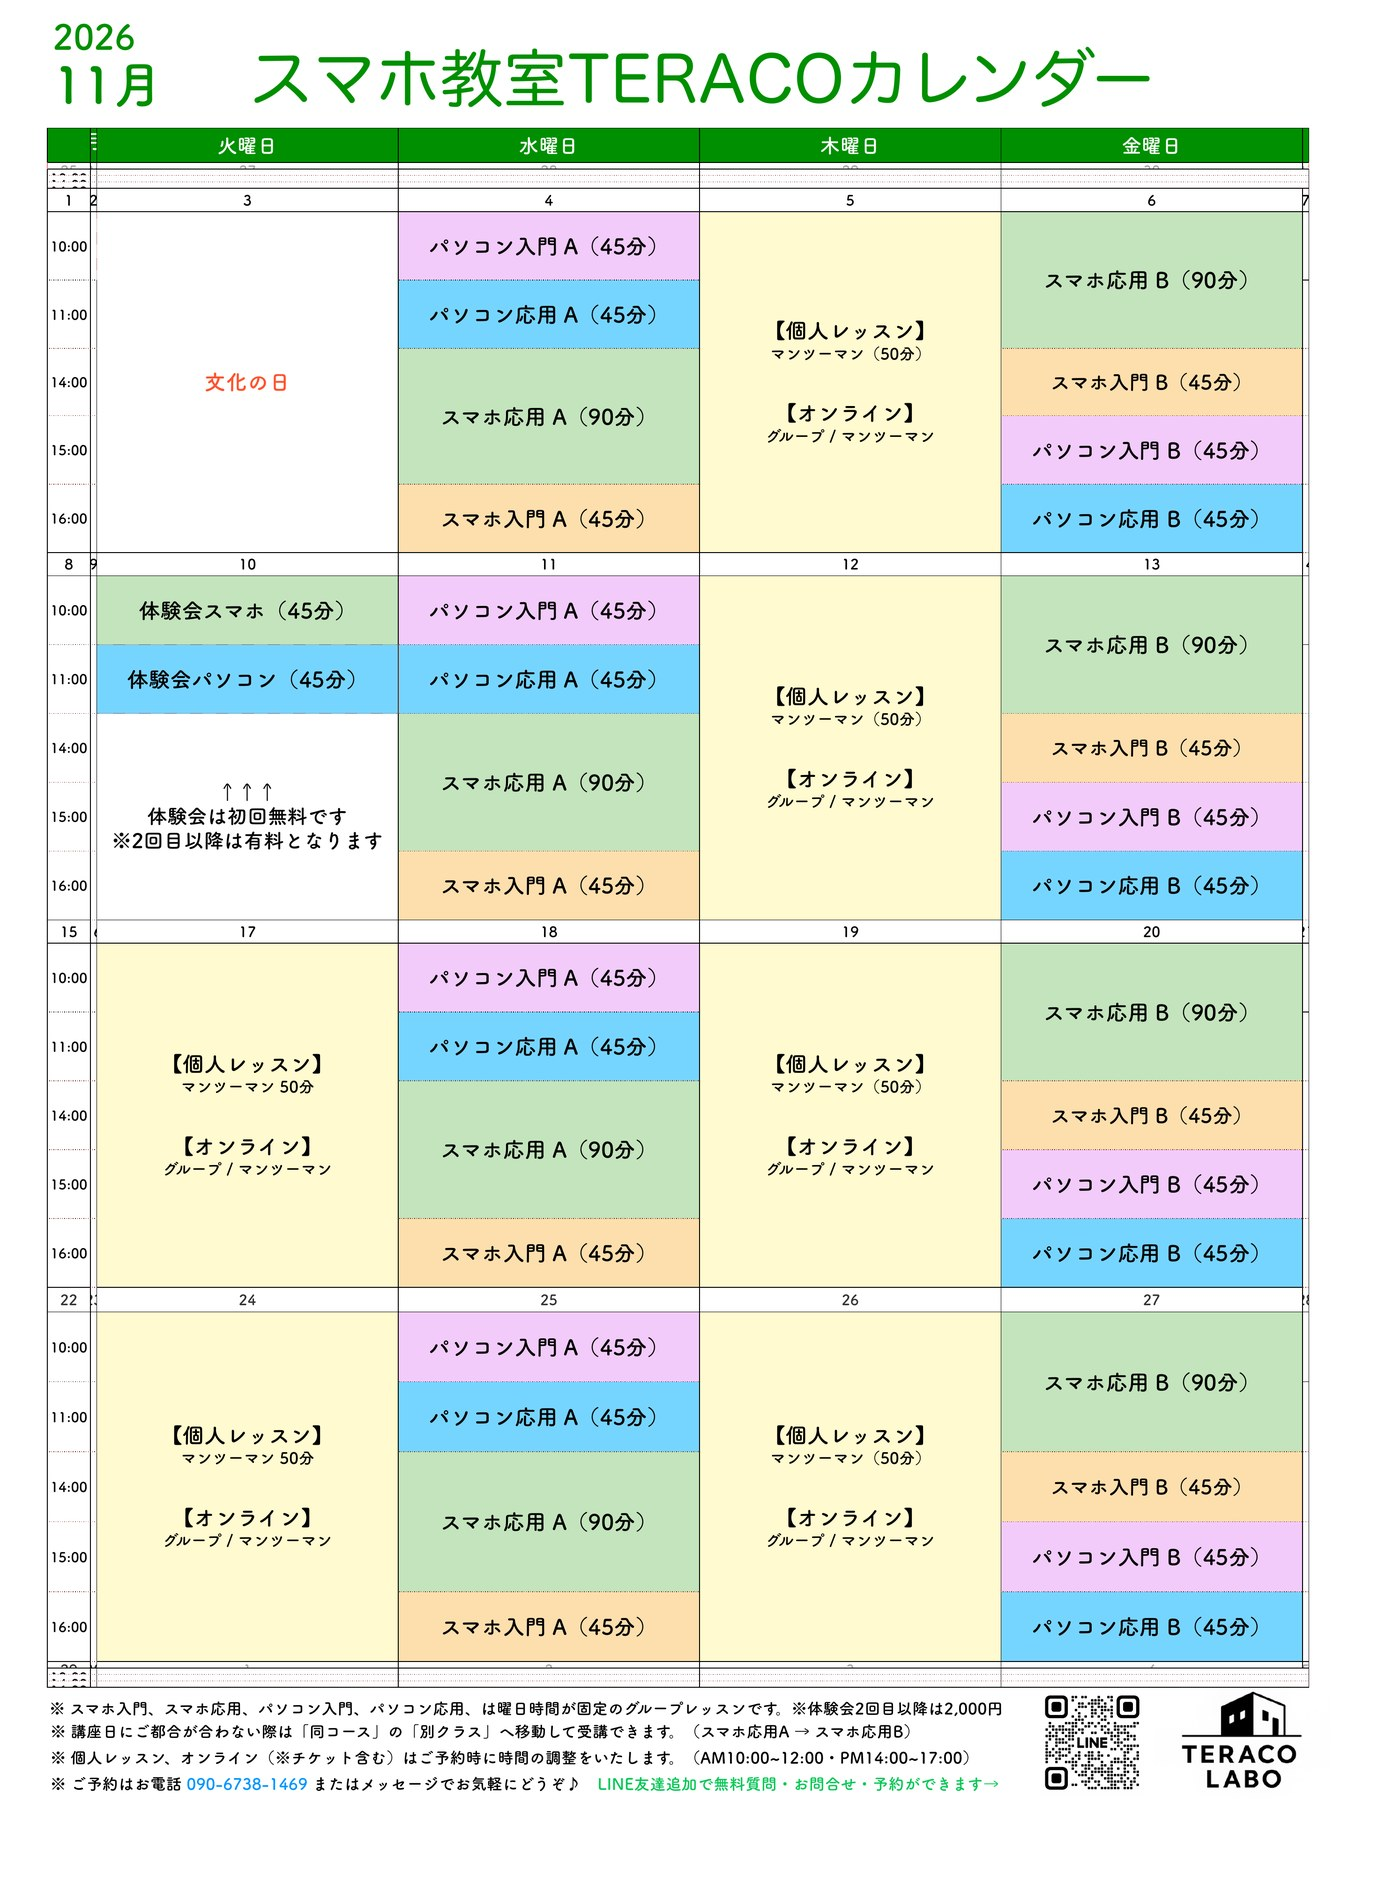
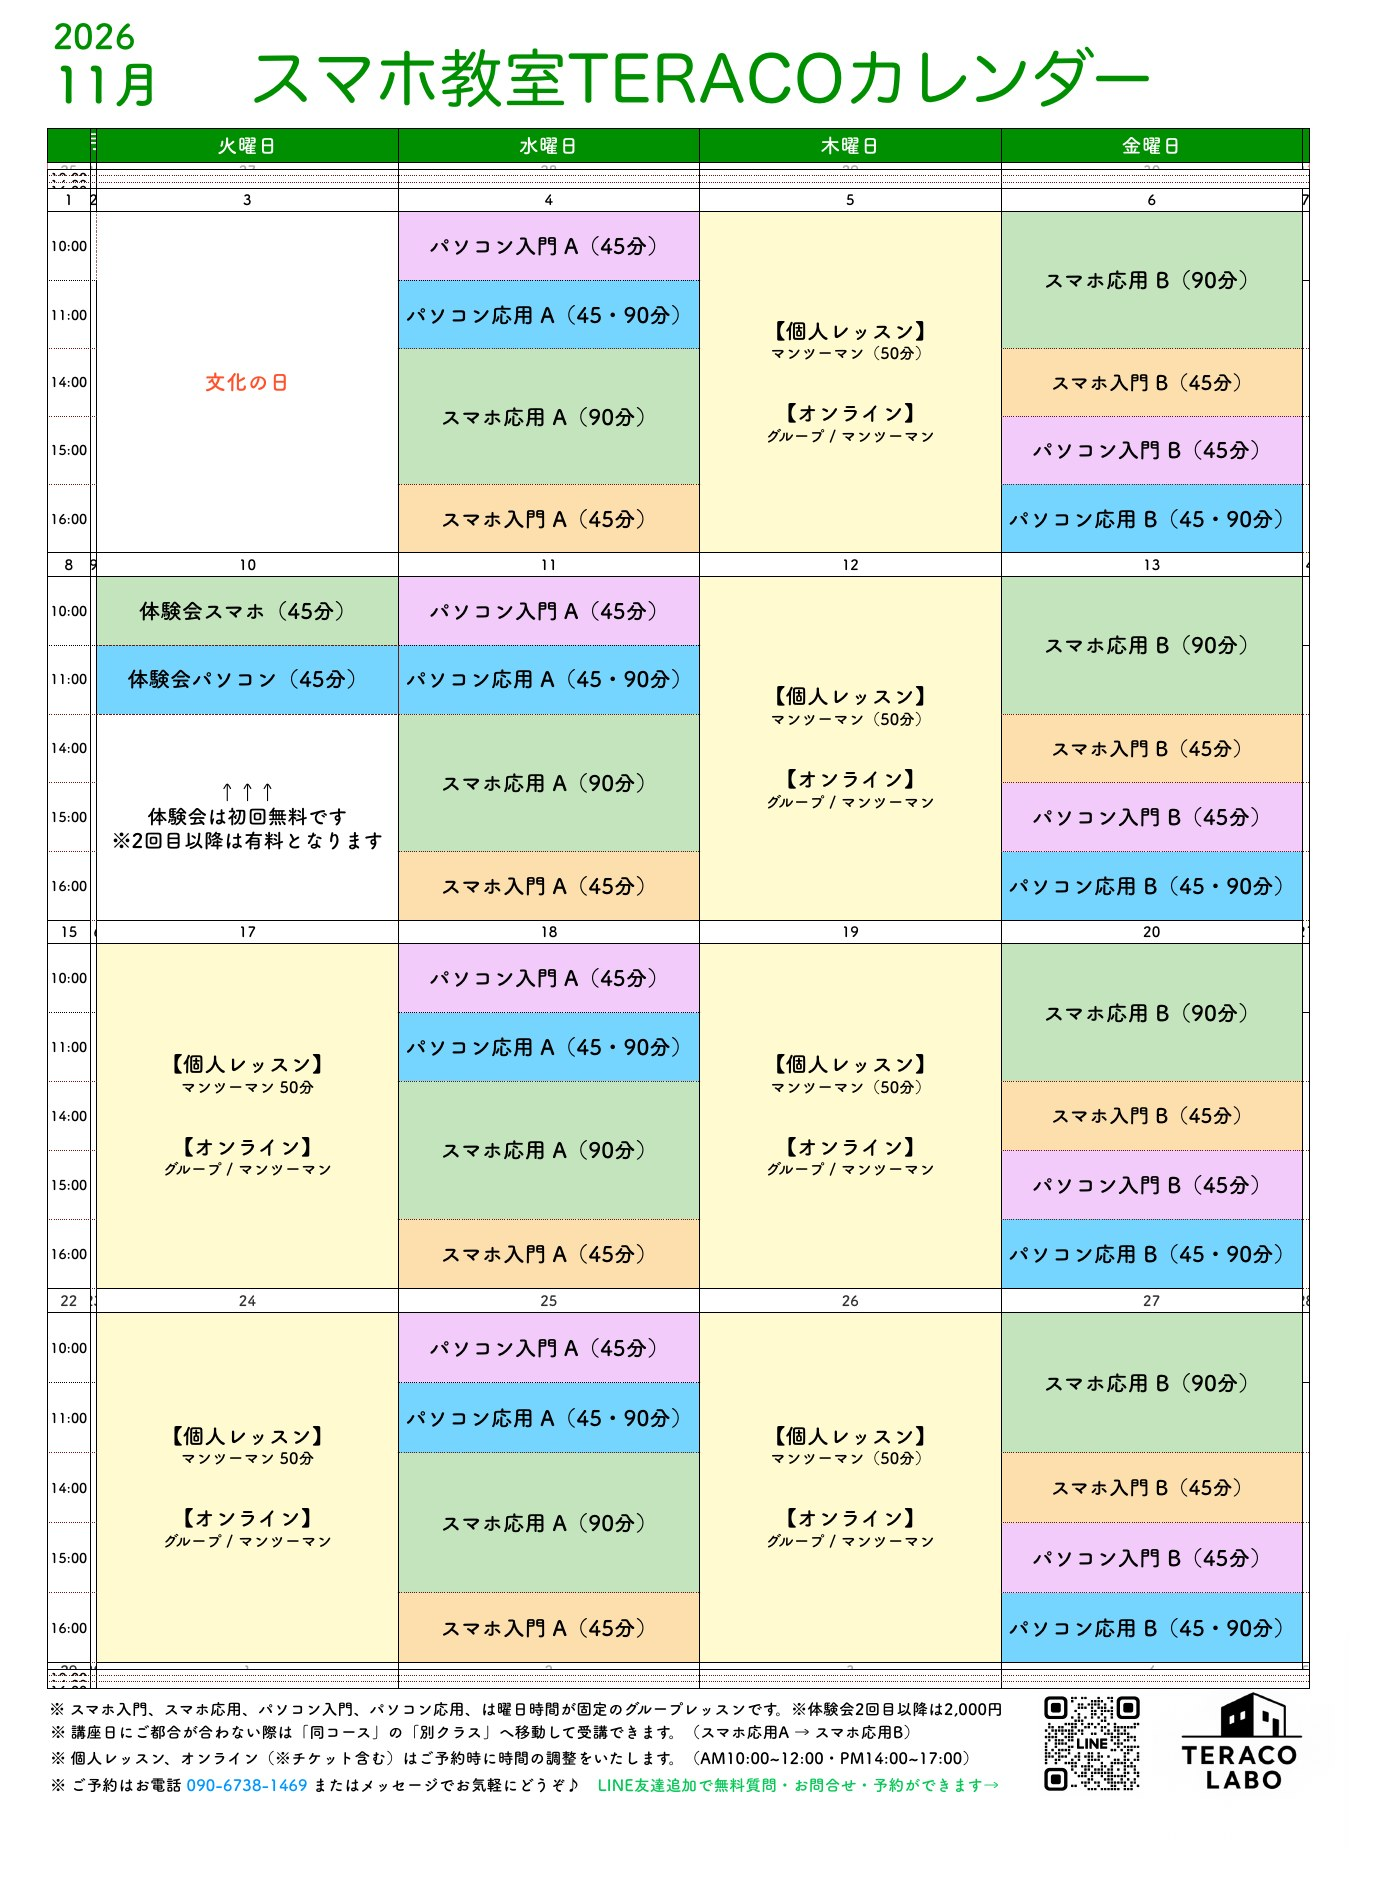
feat(pwa-reserve): パソコン応用の表示を暫定で「45・90分」に。Numbersを直して講座カレンダー画像6枚を差し替え（app n30）

diff --git a/pwa-reserve/calendar.html b/pwa-reserve/calendar.html
@@ -53,7 +53,7 @@
   <span class="msg" id="msg">読み込み中…</span>
 </div>
 <div class="sheet" id="sheet"><div class="err">講座カレンダーを読み込んでいます…</div></div>
-<script src="timetable.js?v=1"></script>
+<script src="timetable.js?v=2"></script>
 <script src="calendar-img/months.js?v=1"></script>
 <script>
 'use strict';
@@ -65,7 +65,7 @@ const SOLO = TT.courses['private'];
 const TIMETABLE = {};
 Object.values(TT.courses).forEach(c => { if (!c.classes) return;
   Object.keys(c.classes).forEach(k => { const cl = c.classes[k];
-    (TIMETABLE[cl.dow] = TIMETABLE[cl.dow] || []).push({ time: cl.time, span: c.min > 60 ? 2 : 1, label: `${c.label} ${k}（${c.min}分）`, color: c.color }); }); });
+    (TIMETABLE[cl.dow] = TIMETABLE[cl.dow] || []).push({ time: cl.time, span: c.min > 60 ? 2 : 1, label: `${c.label} ${k}（${c.minLabel || c.min}分）`, color: c.color }); }); });
 const pad = n => String(n).padStart(2, '0');
 const dk = d => `${d.getFullYear()}-${pad(d.getMonth() + 1)}-${pad(d.getDate())}`;
 const esc = s => String(s).replace(/[&<>"]/g, c => ({ '&': '&amp;', '<': '&lt;', '>': '&gt;', '"': '&quot;' }[c]));
@@ -77,7 +77,7 @@ const IMG_MONTHS = window.TERACO_CAL_IMG_MONTHS || [];
 function showImage() {
   const [y, m] = month.split('-').map(Number), sheet = document.getElementById('sheet');
   sheet.classList.add('pic');
-  sheet.innerHTML = `<img src="calendar-img/calendar-${month}.jpg?v=1" alt="${y}年${m}月 スマホ教室TERACOカレンダー">`;
+  sheet.innerHTML = `<img src="calendar-img/calendar-${month}.jpg?v=2" alt="${y}年${m}月 スマホ教室TERACOカレンダー">`;
   document.title = `${y}年${m}月 スマホ教室TERACOカレンダー`;
   document.getElementById('msg').textContent = `${m}月の講座カレンダー`;
   history.replaceState(null, '', `?m=${month}`);

diff --git a/pwa-reserve/app.js b/pwa-reserve/app.js
@@ -88,7 +88,8 @@ const dowTimeText = (c) => `${DAYS[c.dow]}曜 ${c.time}`;
 // クラス名には必ず分数を入れる（例：スマホ入門 A（45分）／個人レッスン（50分））
 function courseName(course, klass) {
   const c = COURSES[course]; if (!c) return '';
-  return c.classes && klass ? `${c.label} ${klass}（${c.min}分）` : `${c.label}（${c.min}分）`;
+  const mm = c.minLabel || c.min;   // 表示だけの分数（パソコン応用は暫定で「45・90」）
+  return c.classes && klass ? `${c.label} ${klass}（${mm}分）` : `${c.label}（${mm}分）`;
 }
 function classText(p) {
   if (!p || !p.course || !COURSES[p.course]) return '';
@@ -207,7 +208,7 @@ const eventAt = (dayKey, time) => SCHEDULE.events.find(ev => ev.day === dayKey &
 // 生徒がえらべる予定＝名前に「体験会」が入っているもの（初めての方も、在籍の方（有料）もえらべる）
 const trialEventsOn = (dayKey) => SCHEDULE.events.filter(ev => ev.day === dayKey && /体験会/.test(ev.label || '')).sort((a, b) => a.time.localeCompare(b.time));
 // 枠の表示：必ず「時刻（分数）」を出す。例「16:00（45分）」「10:00 体験会スマホ（45分）」
-const slotMin = (sl) => Number(sl.min) || ((me() && COURSES[me().course]) ? COURSES[me().course].min : 45);
+const slotMin = (sl) => Number(sl.min) || ((me() && COURSES[me().course]) ? (COURSES[me().course].minLabel || COURSES[me().course].min) : 45);
 const slotTimeText = (sl) => `${sl.start_time}${sl.event ? ' ' + sl.event : ''}（${slotMin(sl)}分）`;
 const isTrialTitle = (e) => /体験会/.test((e && (e.class_title || e.label || e.title)) || '');
 // その日に受けられる講座の一覧 [{time, klass, own}]。own=自分のクラス、false=同じコースの別クラス（振替）

diff --git a/pwa-reserve/timetable.js b/pwa-reserve/timetable.js
@@ -7,7 +7,8 @@ window.TERACO_TIMETABLE = {
     'sp-intro': { cat: 'smartphone', label: 'スマホ入門',   short: '入門', min: 45, color: '#F8DDB0', classes: { A: { dow: 3, time: '16:00' }, B: { dow: 5, time: '14:00' } } },
     'sp-adv':   { cat: 'smartphone', label: 'スマホ応用',   short: '応用', min: 90, color: '#C9E2C0', classes: { A: { dow: 3, time: '14:00' }, B: { dow: 5, time: '10:00' } } },
     'pc-intro': { cat: 'pc_ai',      label: 'パソコン入門', short: '入門', min: 45, color: '#E6CDF5', classes: { A: { dow: 3, time: '10:00' }, B: { dow: 5, time: '15:00' } } },
-    'pc-adv':   { cat: 'pc_ai',      label: 'パソコン応用', short: '応用', min: 45, color: '#A9DCFB', classes: { A: { dow: 3, time: '11:00' }, B: { dow: 5, time: '16:00' } } },
+    // パソコン応用：正式は90分（料金表どおり）。今は旧ベーシックの45分の方が多いので、カレンダー表示だけ暫定で「45・90分」（2026-10-08 藤崎さん）。予定の長さ（min）は45分のまま
+    'pc-adv':   { cat: 'pc_ai',      label: 'パソコン応用', short: '応用', min: 45, minLabel: '45・90', color: '#A9DCFB', classes: { A: { dow: 3, time: '11:00' }, B: { dow: 5, time: '16:00' } } },
     'private':  { cat: null,         label: '個人レッスン', short: '個人レッスン', min: 50, color: '#FDF3C4', classes: null }
   },
   privateDows: [2, 4],

diff --git a/pwa-reserve/index.html b/pwa-reserve/index.html
@@ -138,9 +138,9 @@
 <div id="busy"><div class="spin"></div><div id="busyText">おまちください</div></div>
 <script charset="utf-8" src="https://static.line-scdn.net/liff/edge/2/sdk.js"></script>
 <script src="line-config.js?v=3"></script>
-<script src="timetable.js?v=1"></script>
+<script src="timetable.js?v=2"></script>
 <script src="calendar-img/months.js?v=1"></script>
-<script src="app.js?v=n29"></script>
+<script src="app.js?v=n30"></script>
 <script>if ('serviceWorker' in navigator) { navigator.serviceWorker.register('sw.js').catch(function(){}); }</script>
 </body>
 </html>

diff --git a/pwa-reserve/使用書.md b/pwa-reserve/使用書.md
@@ -104,6 +104,7 @@
 | 2026-09-25 | app n22: 画面の説明文を最小限に（回数は「10月は、あと4回えらべます」だけ。コースの回数・繰り越し・名簿の話は出さない。凡例も3行に） |
 | 2026-09-25 | app n21: 「電話で相談」を廃止。締切後の予約はボタンなしで薄く表示 |
 | 2026-09-25 | app n20: 取り消しを「複数えらんで最終確認」に（チェック式→えらんだ○件を取り消す→確認画面）。予約ごとの「取り消す」ボタンは廃止 |
+| 2026-10-08 | app n30: パソコン応用の表示を暫定で「45・90分」に（正式は90分。今は旧ベーシックの45分の方が多い）。timetable.js の minLabel。予定の長さは45分のまま。Numbers（★TERACOカレンダー.numbers のシート R8.10-1〜R9.3）も同じ表記に直し、画像6枚を差し替え。控え ★TERACOカレンダー（控え_2026-10-08_分数変更前）.numbers |
 | 2026-10-08 | GAS v60: 名前違いの同じ講座を1つの予定に（findEventAt・新規は新しい名前）、まとめ機能 admin_merge_duplicates。10/23 の「応用てらこ」（矢津田さん）を「応用B」にまとめた。講座カレンダーに体験会・休み・体験会の日の午後を登録 |
 | 2026-10-01 | GAS v59 / app n28: 月の回数を Customer（マイページ用）にそろえた。前の月の欠席数を翌月の上限に足す（繰り越し）。今月すでに過ぎた回も数えるように |
 | 2026-10-01 | app n27: 月の上限を「ひと月＝月の回数」に修正（2か月で×2の計算をやめた） |
